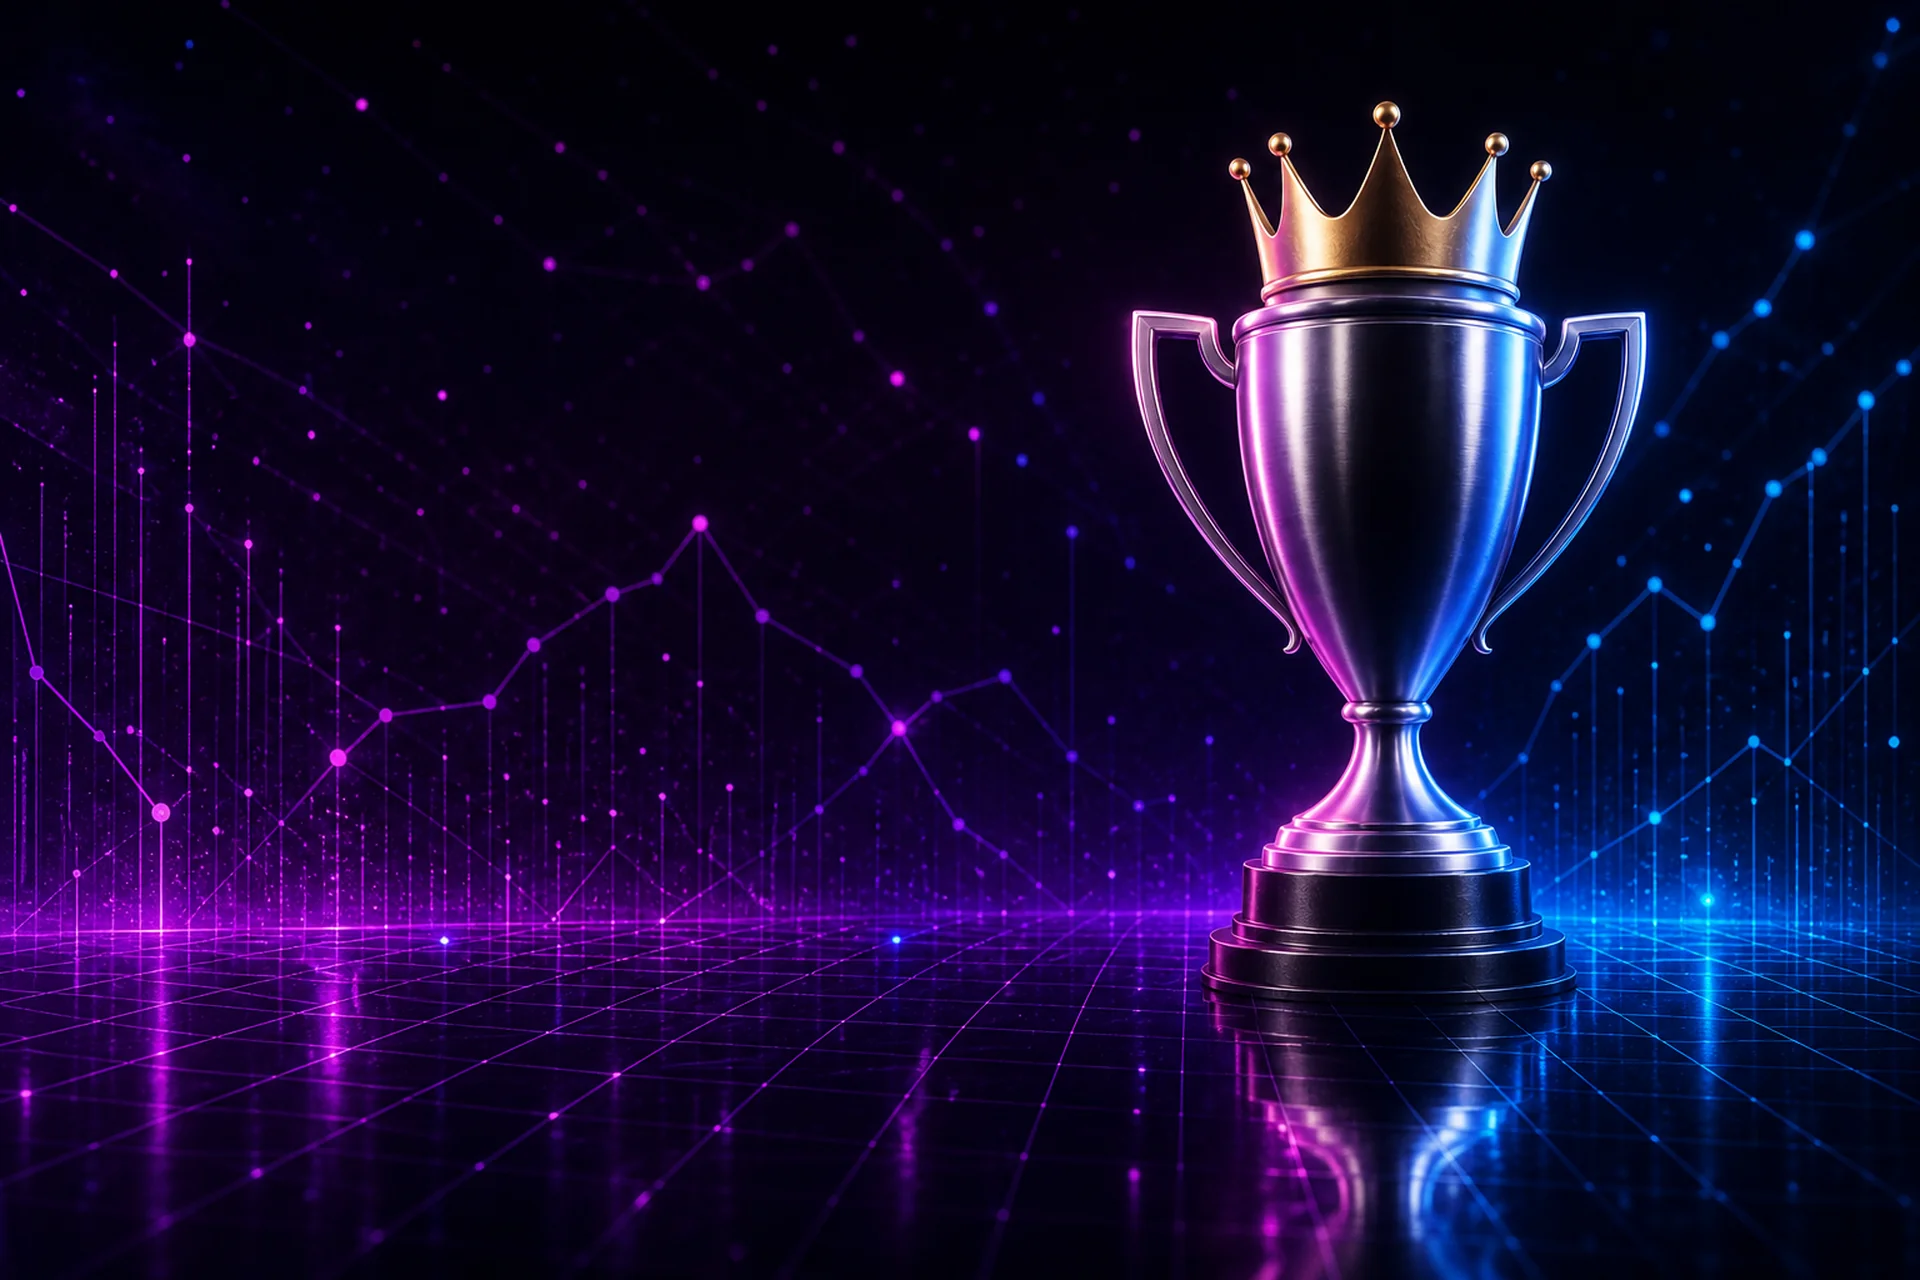
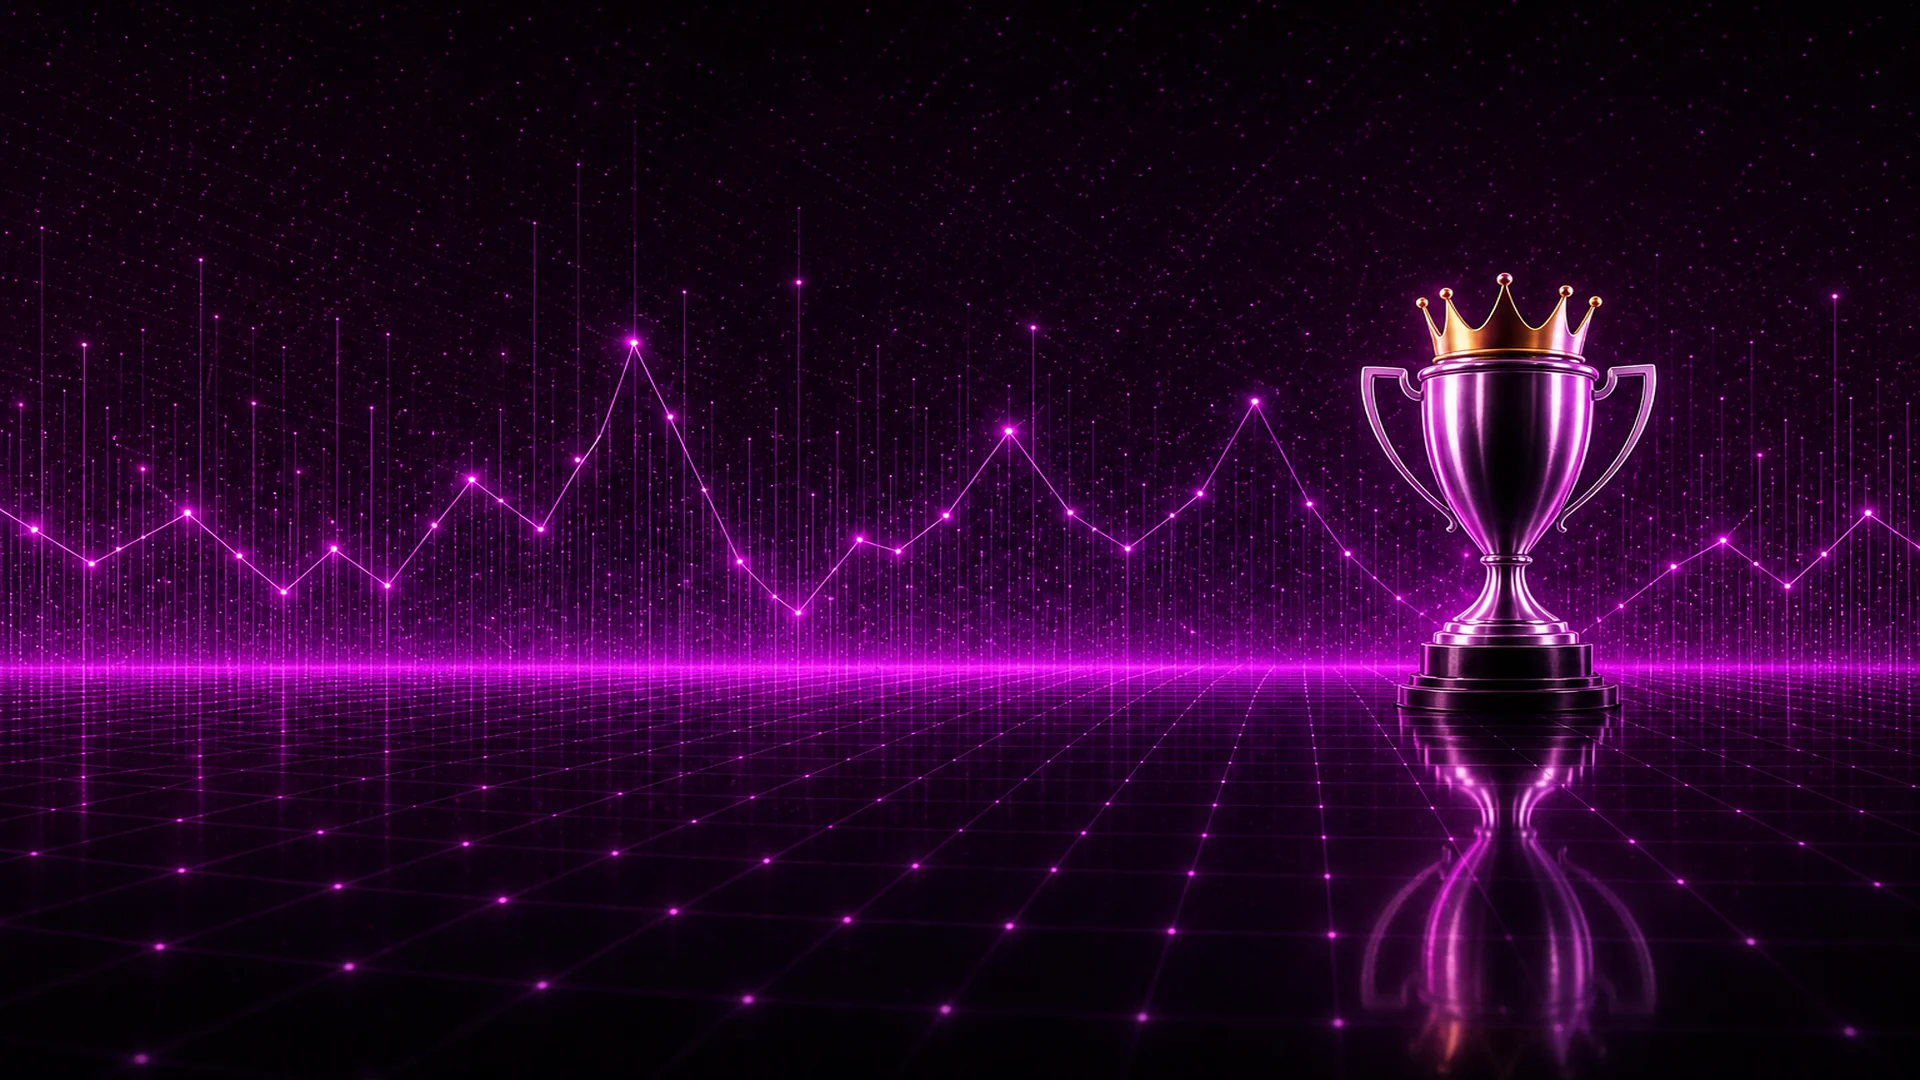
fix(hero): single continuous scene — remove dual-layer paste seam
Replace the cover+contain stack (two scales of the same art meeting at a
hard edge) with one magenta full-bleed scene and a single object-cover
layer. Trophy keeps crown headroom; atmosphere spans the frame.

diff --git a/src/components/scl/competition-hero.tsx b/src/components/scl/competition-hero.tsx
@@ -82,24 +82,7 @@ export function CompetitionHero() {
         }
       }}
     >
-      {/*
-        Dual layer, same full-bleed art:
-        - cover fills letterbox edges so the left never goes matte-black
-        - contain keeps the whole trophy (including crown) in frame, no zoom crop
-      */}
-      <picture aria-hidden className="pointer-events-none absolute inset-0">
-        <source
-          media="(min-width: 640px)"
-          srcSet="/assets/scl/leaderboard-trophy-desktop.webp"
-        />
-        <img
-          src="/assets/scl/leaderboard-trophy-mobile.webp"
-          alt=""
-          width="1080"
-          height="1920"
-          className="size-full object-cover object-center opacity-90 sm:object-[center_right]"
-        />
-      </picture>
+      {/* Single full-bleed scene — one image, one scale (no cover/contain stack) */}
       <picture className="pointer-events-none absolute inset-0">
         <source
           media="(min-width: 640px)"
@@ -111,17 +94,17 @@ export function CompetitionHero() {
           width="1080"
           height="1920"
           fetchPriority="high"
-          className="size-full object-contain object-center opacity-95 sm:object-right"
+          className="size-full object-cover object-center opacity-95"
         />
       </picture>
-      {/* Light readability scrim only — do not wipe the left into flat black */}
+      {/* Soft scrim for copy contrast only */}
       <div
         aria-hidden
-        className="absolute inset-0 bg-[color:var(--scl-ink-950)]/20"
+        className="absolute inset-0 bg-[color:var(--scl-ink-950)]/25"
       />
       <div
         aria-hidden
-        className="absolute inset-0 bg-gradient-to-r from-[color:var(--scl-ink-950)]/35 via-[color:var(--scl-ink-950)]/10 to-transparent"
+        className="absolute inset-0 bg-gradient-to-r from-[color:var(--scl-ink-950)]/40 via-[color:var(--scl-ink-950)]/15 to-transparent"
       />
       <div
         aria-hidden

diff --git a/docs/SCL_ASSET_MANIFEST.md b/docs/SCL_ASSET_MANIFEST.md
@@ -6,10 +6,10 @@ text, metrics, controls, or logos; those remain accessible HTML and code-native 
 Remote sports marks are **self-hosted** (optional) under `public/marks/`, gated by a static
 manifest — never hotlinked. Missing marks always render the monogram/lettermark fallback.
 
-| Asset                             |  Dimensions | Use                         | Treatment                                                                 |
-| --------------------------------- | ----------: | --------------------------- | ------------------------------------------------------------------------- |
-| `leaderboard-trophy-desktop.webp` | 1920 x 1280 | Home hero at `sm` and above | Full-bleed data-space; trophy right; atmosphere/grid/charts to both edges |
-| `leaderboard-trophy-mobile.webp`  | 1080 x 1920 | Home hero below `sm`        | Full-bleed portrait; trophy lower field; atmosphere through upper copy    |
+| Asset                             |  Dimensions | Use                         | Treatment                                                                                    |
+| --------------------------------- | ----------: | --------------------------- | -------------------------------------------------------------------------------------------- |
+| `leaderboard-trophy-desktop.webp` | 1920 x 1080 | Home hero at `sm` and above | One continuous magenta data-space; trophy right with crown headroom; no collage / dual-scale |
+| `leaderboard-trophy-mobile.webp`  | 1080 x 1920 | Home hero below `sm`        | Matching single continuous portrait; trophy lower field with headroom                        |
 
 ## League / team marks (self-hosted)
 
@@ -48,15 +48,13 @@ Code maps: `src/lib/mark-manifest.ts`, `src/lib/teams.ts`, `src/lib/leagues.ts`,
 
 Desktop:
 
-> Original premium 3D championship trophy in a near-black violet data space, with controlled
-> magenta and electric-blue edge lighting. Perspective grid floor and glowing performance chart
-> traces MUST extend edge-to-edge across the full width — no flat black dead zone on the left.
-> Fully visible trophy in the right third; left two-thirds keep the same room atmosphere (dimmer
-> for copy, still textured). No text, numbers, logos, UI, people, sportsbook imagery, or watermark.
+> One continuous near-black violet data room with magenta/pink-violet neon only (no blue half,
+> no color split-screen). Perspective grid and one unbroken chart line span the full width.
+> Fully visible trophy in the right third with clear margin above the crown. No collage, no seam,
+> no flat black left void, no text/logos/UI/people/watermark.
 
 Mobile:
 
-> Portrait companion preserving the desktop trophy and lighting. Atmosphere (grid, chart traces,
-> volumetric purple/blue light) fills the entire frame including the upper third and left edge —
-> never a matte black panel. Fully visible trophy in the lower-right/center field. No text,
-> numbers, logos, UI, people, sportsbook imagery, or watermark.
+> Portrait companion of the same single continuous magenta data room. Atmosphere fills the upper
+> third and left edge. Fully visible trophy with margin above the crown. No collage, seam, flat
+> black void, text, logos, UI, people, or watermark.
